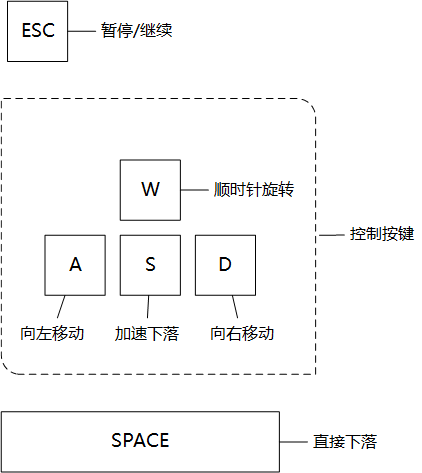
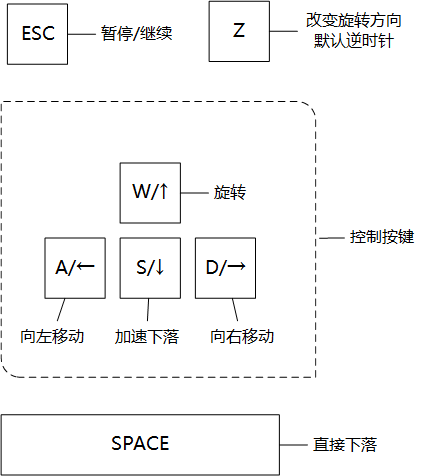
1、增加开始界面 2、增加z键转换旋转方向功能 3、修改操作说明

diff --git a/app/TetrisMap.jsx b/app/TetrisMap.jsx
@@ -30,9 +30,10 @@ class TetrisMap extends React.Component {
   rorateKeyDown = false
   dropDirectly = false
   pauseKeyDown = false
+  changeRorateDir = false
 
   componentDidMount() {
-    this.props.dispatch({ type: A.START })
+    // this.props.dispatch({ type: A.CONTINUE })
     document.addEventListener('keydown', this.onKeyDown)
     document.addEventListener('keyup', this.onKeyUp)
   }
@@ -44,16 +45,19 @@ class TetrisMap extends React.Component {
 
   onKeyUp = (event) => {
     const key = event.key.toLowerCase()
-    if (key === 'a' || key === 'd') {
+    const keyCode = event.keyCode
+    if (key === 'a' || key === 'd' || keyCode === 37 || keyCode === 39) {
       this.props.dispatch({ type: A.LR_KEY_UP, keyName: key })
-    } else if (key === 's') {
+    } else if (key === 's' || keyCode === 40) {
       this.props.dispatch({ type: A.DROP_KEY_UP, keyName: key })
-    } else if (key === 'w') {
+    } else if (key === 'w' || keyCode === 38) {
       this.rorateKeyDown = false
-    } else if (event.keyCode === 32) {
+    } else if (keyCode === 32) {
       this.dropDirectly = false
-    } else if (event.keyCode === 27) {
+    } else if (keyCode === 27) {
       this.pauseKeyDown = false
+    } else if (key === 'z') {
+      this.changeRorateDir = false
     }
   }
 
@@ -63,25 +67,30 @@ class TetrisMap extends React.Component {
     }
     const { isPaused } = this.props
     const key = event.key.toLowerCase()
+    const keyCode = event.keyCode
     if (isPaused && event.keyCode === 27) {
-      this.props.dispatch({ type: A.START })
+      this.props.dispatch({ type: A.CONTINUE })
       this.pauseKeyDown = true
       return null
     }
     if (!isPaused) {
-      if (key === 'a') {
+      if (key === 'a' || keyCode === 37) {
         this.props.dispatch({ type: A.LR_KEY_DOWN, dRow: 0, dCol: -1 })
-      } else if (key === 'd') {
+      } else if (key === 'd' || keyCode === 39) {
         this.props.dispatch({ type: A.LR_KEY_DOWN, dRow: 0, dCol: 1 })
-      } else if (key === 's') {
+      } else if (key === 's' || keyCode === 40) {
         this.props.dispatch({ type: A.DROP_KEY_DOWN, dRow: 1, dCol: 0 })
-      } else if (key === 'w' && !this.rorateKeyDown) {
+      } else if ((key === 'w' || keyCode === 38) && !this.rorateKeyDown) {
         this.props.dispatch({ type: A.RORATE })
         this.rorateKeyDown = true
-      } else if (event.keyCode === 32 && !this.dropDirectly) {
+      } else if(key === 'z' && !this.changeRorateDir){
+        this.props.dispatch({type: A.CHANGE_RORATE_DIR})
+        this.changeRorateDir = true
+      }else if (keyCode === 32 && !this.dropDirectly) {
         this.props.dispatch({ type: A.DROP_DIRECTLY })
         this.dropDirectly = true
-      } else if (event.keyCode === 27) {
+      } else if (keyCode === 27 && !this.pauseKeyDown) {
+        // todo 长按esc存在问题
         this.props.dispatch({ type: A.PAUSE })
         this.pauseKeyDown = true
       }
@@ -89,7 +98,7 @@ class TetrisMap extends React.Component {
   }
 
   render() {
-    const { tetrisMap, curTetromino, score, isGameOver, nextTetromino, isPaused, level, forecast, helpSchemaOn } = this.props
+    const { tetrisMap, curTetromino, score, isGameOver, nextTetromino, isPaused, level, forecast, helpSchemaOn, isGoing } = this.props
     const { type, row: tRow, col: tCol, direction } = curTetromino.toObject()
     const { type: nextType, direction: nextDir } = nextTetromino.toObject()
     const { color } = colorMap.get(type)
@@ -113,7 +122,7 @@ class TetrisMap extends React.Component {
     const startButton = <Button
       disabled={isGameOver}
       onClick={() => {
-        this.props.dispatch({ type: A.START })
+        this.props.dispatch({ type: A.CONTINUE })
       }}
       text="继续"
     />
@@ -136,14 +145,14 @@ class TetrisMap extends React.Component {
     let forecastRender = null
     if (forecast !== null) {
       const { type: fType, row: fRow, col: fCol, direction: fDirection } = forecast.toObject()
-      forecastRender = <g>
+      forecastRender = (isGoing && !isPaused) ? <g>
         {directionMapDelta.get(fType).get(fDirection).map((every, index) => {
           const { x, y } = indexToCoordinate(fRow + every[0], fCol + every[1])
           return (
             <Cell key={index} x={x} y={y} fill={color} real={false} />
           )
         })}
-      </g>
+      </g> : null
     }
 
     return (
@@ -182,14 +191,14 @@ class TetrisMap extends React.Component {
                   })}
                 </g>
               )}
-              <g>
+              {(isGoing && !isPaused) ? <g>
                 {directionMapDelta.get(type).get(direction).map((every, index) => {
                   const { x, y } = indexToCoordinate(tRow + every[0], tCol + every[1])
                   return (
                     <Cell key={index} x={x} y={y} fill={color} real={true} />
                   )
                 })}
-              </g>
+              </g> :null}
               {helpSchemaOn ? forecastRender : null}
             </svg>
           </div>
@@ -211,7 +220,7 @@ class TetrisMap extends React.Component {
             <div className="next-content">
               <span>Next</span>
               <div style={{ padding: '16px' }}>
-                <svg
+                {(isGoing && !isPaused) ? <svg
                   width={`${CELL_WIDTH * (maxCol - minCol + 1)}px`}
                   height={`${CELL_HEIGHT * (maxRow - minRow + 1 === 1 ? 2 : maxRow - minRow + 1)}px`}>
                   <g>
@@ -222,7 +231,7 @@ class TetrisMap extends React.Component {
                       )
                     })}
                   </g>
-                </svg>
+                </svg> : null}
               </div>
             </div>
             <div className="button-content">
@@ -230,6 +239,7 @@ class TetrisMap extends React.Component {
               {helpSchemaOn ? helpDown : helpOn}
             </div>
           </div>
+          {!isGoing ?  <div className="pop-wrapper"><StartPage /></div> : null}
           {isGameOver || isPaused ?
             <div className="pop-wrapper">
               {isGameOver ? <GameOverPage /> : null}

diff --git a/app/saga.js b/app/saga.js
@@ -14,24 +14,27 @@ import { canTetrominoMove, dropRandom, forecastPosition } from './utils'
 import { COL } from './constants'
 
 export default function* rootSaga() {
+  yield takeEvery(A.RESTART, startGame)
+  yield fork(watchGameStatus)
+}
+
+function* startGame() {
   yield takeEvery(A.MOVE_TETROMINO, moveTetromino)
   yield takeEvery(A.MERGE_MAP, mergeMap)
   yield takeEvery(A.DROP_NEW_TETROMINO, dropNewTetromino)
   yield takeEvery(A.CLEAR_LINES, clearLines)
   yield takeEvery(A.RORATE, rorateTetromino)
   yield takeEvery(A.DROP_DIRECTLY, dropDirectly)
-  yield takeEvery(A.RESTART, restart)
+  // yield takeEvery(A.RESTART, restart)
   yield takeEvery(A.GAME_OVER, gameOver)
   yield takeEvery(A.CHANGE_TETROMINO, changeTetromino)
   yield takeEvery(A.CHANGE_SPEED, changeSpeed)
-  yield fork(watchGameStatus)
 }
 
 
 function* watchGameStatus() {
   while (true) {
-    yield take(A.START)
-    // const updateLevel = yield fork(watchUpdateLevel)
+    yield take([A.CONTINUE, A.RESTART])
     const dropTask = yield fork(dropTetrominoLoop)
     const dropListenTask = yield fork(dropKeyUpAndDown)
     const lrListenTask = yield fork(lrKeyUpAndDown)
@@ -91,15 +94,13 @@ function* quickMoveLeftOrRight(dRow, dCol) {
       dRow,
       dCol,
     })
-    yield delay(150)
+    yield delay(100)
   }
 }
-
 
 // tetromino的自动下落
 function* dropTetrominoLoop() {
   while (true) {
-    // console.log('drop-loop')
     const state = yield select()
     // todo 对游戏结束的判定有点延迟，如果break的话重新开始就不会自动下落了
     // if (state.get('isGameOver')) {
@@ -148,16 +149,17 @@ function* moveTetromino({ dRow, dCol }) {
 
 function* changeTetromino({ next }) {
   const state = yield select()
-  const { tetrisMap } = state.toObject()
+  const { tetrisMap, helpSchemaOn } = state.toObject()
   yield put({
     type: A.UPDATE_TETROMINO,
     next,
   })
-  yield put({
-    type: A.UPDATE_FORECAST,
-    forecast: forecastPosition(tetrisMap, next)
-  })
-
+  if (helpSchemaOn) {
+    yield put({
+      type: A.UPDATE_FORECAST,
+      forecast: forecastPosition(tetrisMap, next)
+    })
+  }
 }
 
 // 控制物块的直接下落
@@ -247,7 +249,7 @@ function* changeSpeed() {
   if (level < Math.floor(score / 1000) + 1) {
     yield put({
       type: A.UPDATE_SPEED,
-      speed: (level + 1),
+      speed: (level + 1) * 0.5,
     })
     yield put({
       type: A.UPDATE_LEVEL,
@@ -282,8 +284,8 @@ function* dropNewTetromino() {
 function* rorateTetromino() {
   // console.log('rorate-tetromino')
   const state = yield select()
-  const { tetrisMap, curTetromino } = state.toObject()
-  const nextPosition = curTetromino.update('direction', v => (v - 1) % 4)
+  const { tetrisMap, curTetromino, rorateDir } = state.toObject()
+  const nextPosition = curTetromino.update('direction', v => (v + rorateDir) % 4)
   const canMove = canTetrominoMove(tetrisMap, nextPosition)
   if (canMove && curTetromino.get('type') !== 'O') {
     yield put({
@@ -293,13 +295,9 @@ function* rorateTetromino() {
   }
 }
 
-function* restart() {
-  yield put({ type: A.START })
-}
-
 function* gameOver() {
   yield put({ type: A.UPDATE_GAME_STATUS })
-  yield put({ type: A.PAUSE })
+  // yield put({ type: A.PAUSE })
 }
 
 // function* watchUpdateLevel() {

diff --git a/app/reducer.js b/app/reducer.js
@@ -22,6 +22,7 @@ const initialState = Map({
   isPaused: false,
   // 帮助模式
   helpSchemaOn: false,
+  rorateDir: -1,
 })
 
 export default function updateMap(state = initialState, action) {
@@ -42,10 +43,10 @@ export default function updateMap(state = initialState, action) {
     return state.set('nextTetromino', action.next)
   } else if (action.type === A.PAUSE) {
     return state.set('isPaused', true)
-  } else if (action.type === A.START) {
+  } else if (action.type === A.CONTINUE) {
     return state.set('isPaused', false)
   } else if (action.type === A.RESTART) {
-    return initialState.set('curTetromino', dropRandom()).set('nextTetromino', dropRandom())
+    return initialState.set('curTetromino', dropRandom()).set('nextTetromino', dropRandom()).set('isGoing', true)
   } else if (action.type === A.UPDATE_FORECAST) {
     return state.set('forecast', action.forecast)
   } else if (action.type === A.HELP_ON) {
@@ -54,7 +55,9 @@ export default function updateMap(state = initialState, action) {
     return state.set('helpSchemaOn', false)
   } else if (action.type === A.UPDATE_LEVEL) {
     return state.update('level', v => v + 1)
-  } else {
+  } else if(action.type === A.CHANGE_RORATE_DIR) {
+    return state.update('rorateDir', v => -v)
+  }else {
     return state
   }
 }

diff --git a/app/PausedPage.jsx b/app/PausedPage.jsx
@@ -9,7 +9,7 @@ class PausedPage extends React.Component {
     const startButton = <Button
       disabled={false}
       onClick={() => {
-        this.props.dispatch({ type: A.START })
+        this.props.dispatch({ type: A.CONTINUE })
       }}
       text="继续"
     />
@@ -20,7 +20,7 @@ class PausedPage extends React.Component {
       <div className="line">
         <span>PAUSED</span>
         <div className="each-button">{startButton}</div>
-        <div className="each-button"><Button disabled={false} text="..." onClick={() => console.log('click')} /></div>
+        <div className="each-button"><Button disabled={false} text="···" onClick={() => console.log('click')} /></div>
         <div className="each-button">{reStartButton}</div>
       </div>
     )

diff --git a/app/action.js b/app/action.js
@@ -29,7 +29,7 @@ export const DROP_DIRECTLY = 'DROP_DIRECTLY'
 // 重启游戏
 export const RESTART = 'RESTART'
 // 游戏开始
-export const START = 'START'
+export const CONTINUE = 'CONTINUE'
 export const PAUSE = 'PAUSE'
 export const UPDATE_GAME_STATUS = 'UPDATE_GAME_STATUS'
 export const UPDATE_FORECAST = 'UPDATE_FORECAST'
@@ -38,3 +38,5 @@ export const HELP_ON = 'HELP_ON'
 export const HELP_DOWN = 'HELP_DOWN'
 
 export const UPDATE_LEVEL = 'UPDATE_LEVEL'
+
+export const CHANGE_RORATE_DIR = 'CHANGE_RORATE_DIR'

diff --git a/app/StartPage.jsx b/app/StartPage.jsx
@@ -15,6 +15,7 @@ class StartPage extends React.Component {
     />
     return (
       <div className="line">
+        <span>Emma's Tetris!</span>
         <div className="each-button">{startButton}</div>
         <div className="each-button"><Button disabled={false} text="..." onClick={() => console.log('click')} /></div>
       </div>
